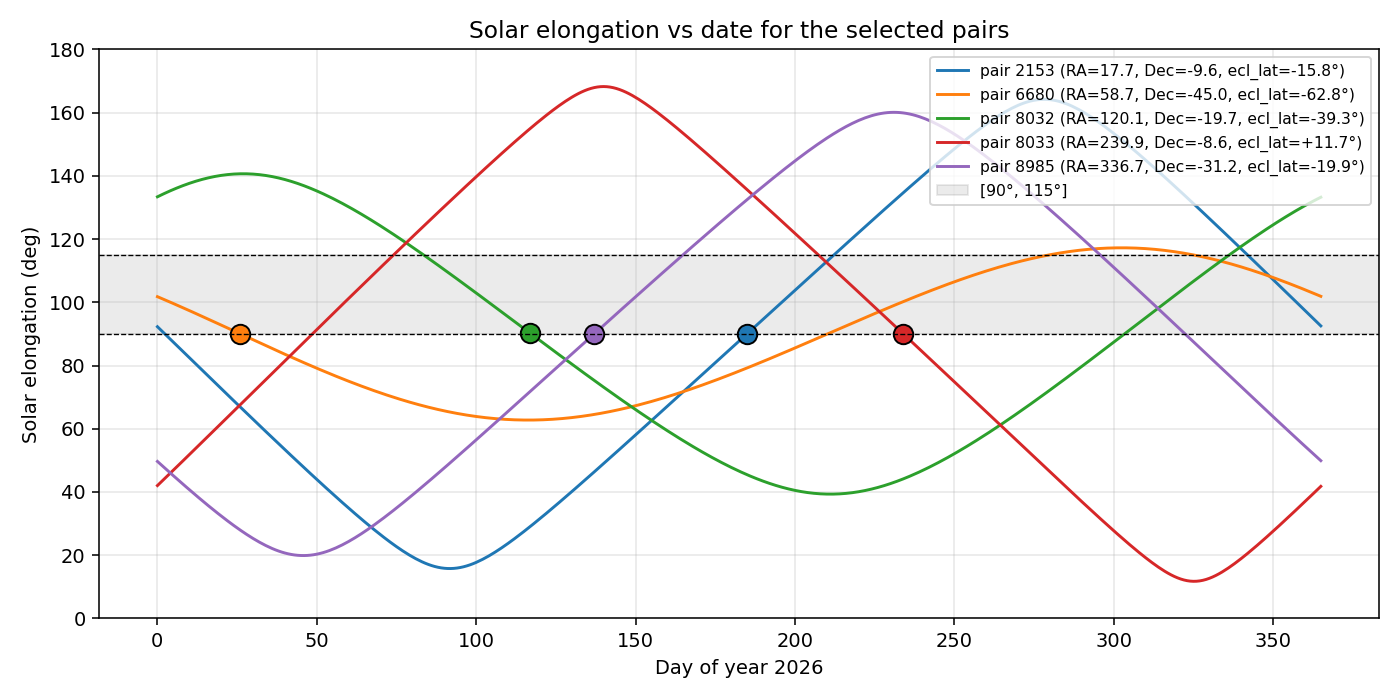
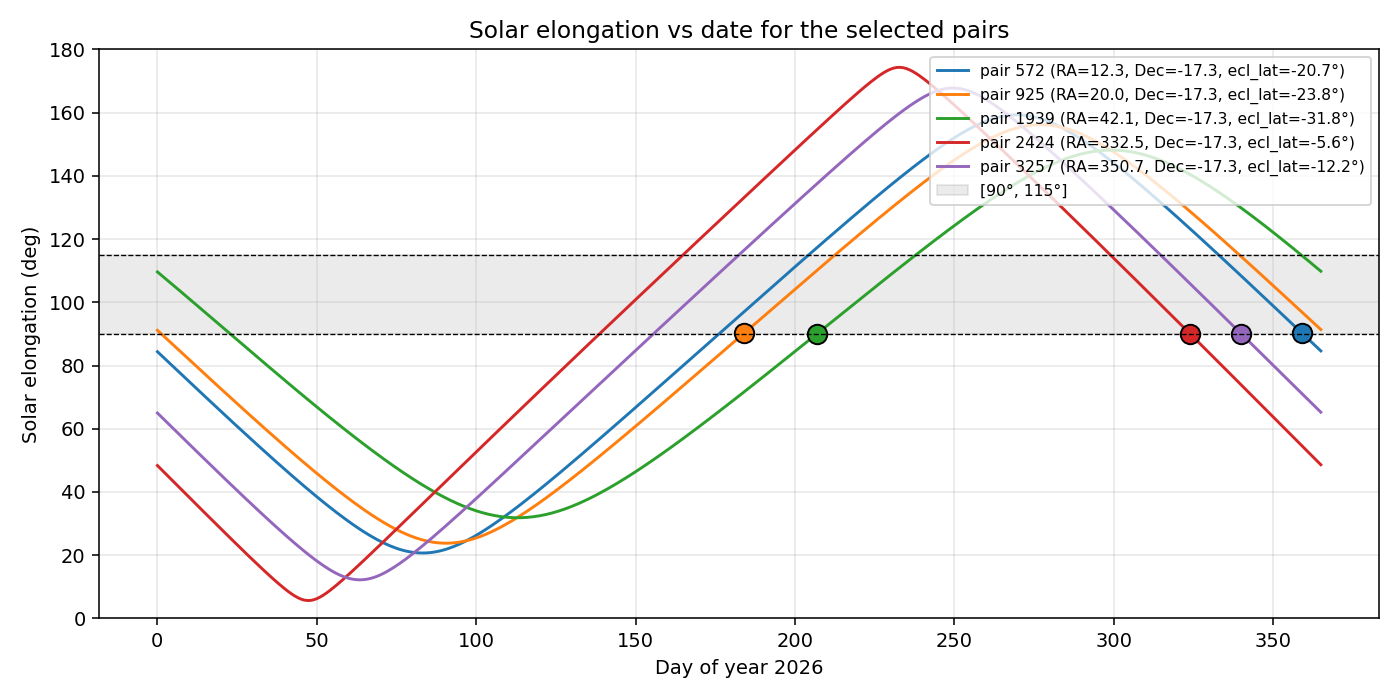
Phase 1 rev2: fix RA-wrap bug, restrict to main-survey box
Previous selection picked pairs at RA ~120° and ~240° (PAIR_IDs 8032,
8033) that had zero HLWAS F158 coverage near them — artifacts of
computing visit centres via the linear mean of 3 dither RAs when the
dithers straddled RA = 0°/360°, producing phantom centres at 120° or
240°. Also picked 8985 right on the southern Dec edge of its RA strip.

Switch to a circular mean of dither RAs, and restrict candidates to
`RA ∈ [330°, 360°] ∪ [0°, 50°]`, `Dec ∈ [-25°, -10°]`. Add an interior
check: ≥200 F158 exposures within 2° of each pair centre, to drop the
remaining near-edge pairs. New picks (PAIR_IDs 572, 925, 1939, 2424,
3257) all sit well inside the HLWAS footprint, all at Dec ≈ -17°, RAs
spread from 332.5° through the wrap to 42.1° (ecliptic latitudes from
-32° to -6°).

diff --git a/scripts/detection/01_select_pointings.py b/scripts/detection/01_select_pointings.py
@@ -59,17 +59,56 @@ ELONG_MAX = 115.0
 YEAR = 2026
 N_PAIRS = 5  # number of pairs to select
 MA_TABLE = 1007  # 107.52 s MA table — canonical HLWAS imaging cadence
-DEC_MAX = 0.0  # stay in the main body of the HLWAS survey
+
+# Main-survey RA/Dec box the selection is drawn from. RA wraps through 0°,
+# so we express it as two segments [RA_MIN_A, 360] ∪ [0, RA_MAX_B].
+# The box is chosen to sit squarely inside the HLWAS F158 footprint, away
+# from its RA/Dec edges, so every candidate pair is in a well-covered
+# part of the survey.
+RA_MIN_A = 330.0
+RA_MAX_B = 50.0
+DEC_MIN = -25.0
+DEC_MAX = -10.0
+
+# "Interior" check: a pair is considered interior to the survey if there
+# are at least INTERIOR_MIN F158 exposures within INTERIOR_RADIUS_DEG of
+# its (wrap-aware) centre. This filters phantom centres and edge pairs.
+INTERIOR_RADIUS_DEG = 2.0
+INTERIOR_MIN = 200
 
 
-def load_pair_candidates() -> pd.DataFrame:
-    """Return one row per visit for all PASS=(15,16) F158 pairs."""
+def _circular_mean_deg(angles_deg: np.ndarray) -> float:
+    """Wrap-aware mean of angles in degrees in [0, 360)."""
+    rad = np.deg2rad(angles_deg)
+    x = np.cos(rad).mean()
+    y = np.sin(rad).mean()
+    return (np.rad2deg(np.arctan2(y, x)) + 360.0) % 360.0
+
+
+def _in_ra_box(ra_deg: np.ndarray | pd.Series) -> np.ndarray:
+    """True where RA is inside [RA_MIN_A, 360] ∪ [0, RA_MAX_B]."""
+    ra = np.asarray(ra_deg)
+    return (ra >= RA_MIN_A) | (ra <= RA_MAX_B)
+
+
+def load_pair_candidates() -> tuple[pd.DataFrame, pd.DataFrame]:
+    """Return (pair-visit rows, raw F158 rows).
+
+    Uses a wrap-aware mean for the visit centre. Restricts to
+    PASS=(15,16) F158 pairs with MA_TABLE_NUMBER=1007 that sit inside
+    the (RA, Dec) box, and only keeps pairs that are interior to the
+    survey (≥ INTERIOR_MIN F158 exposures within INTERIOR_RADIUS_DEG).
+    """
     t = Table.read(HLWAS, format="ascii.ecsv")
     df = t[t["BANDPASS"] == "F158"].to_pandas()
     vkey = ["PLAN", "PASS", "SEGMENT", "OBSERVATION", "VISIT"]
+    # Wrap-aware visit centre (RA via circular mean; Dec is linear)
     vg = df.groupby(vkey)
-    # Visit center = mean of the 3 dither positions
-    centers = vg[["RA", "DEC", "PA"]].mean().reset_index()
+    centers = vg["DEC"].mean().reset_index(name="DEC")
+    centers["RA"] = vg["RA"].apply(
+        lambda s: _circular_mean_deg(s.to_numpy())
+    ).values
+    centers["PA"] = vg["PA"].first().values
     meta = vg.first().reset_index()[
         vkey + ["MA_TABLE_NUMBER", "EXPOSURE_TIME", "TARGET_NAME"]
     ]
@@ -86,19 +125,47 @@ def load_pair_candidates() -> pd.DataFrame:
     )
     wanted_pos = pair_pass[pair_pass == (15, 16)].index
     pairs = pairs.set_index(["ra_r", "dec_r"]).loc[wanted_pos].reset_index()
-    # Restrict to the canonical HLWAS imaging MA table and to the main
-    # survey body (south of the Dec~+2 edge).
+    # Canonical MA table
     pairs = pairs[pairs["MA_TABLE_NUMBER"] == MA_TABLE]
-    pairs = pairs[pairs["DEC"] < DEC_MAX]
-    # Drop any positions where the Dec filter removed one visit but kept
-    # the other (shouldn't happen since a pair shares Dec, but belt+braces):
+    # (RA, Dec) box
+    pairs = pairs[(pairs["DEC"] >= DEC_MIN) & (pairs["DEC"] <= DEC_MAX)]
+    pairs = pairs[_in_ra_box(pairs["RA"])]
+    # Drop positions where one visit survived but not both
     ok = pairs.groupby(["ra_r", "dec_r"]).size() == 2
     pairs = pairs.set_index(["ra_r", "dec_r"]).loc[ok[ok].index].reset_index()
-    # Numeric PAIR_ID = integer rank over unique (ra_r, dec_r)
+    # Numeric PAIR_ID = integer rank over unique (ra_r, dec_r) within
+    # the surviving set (so IDs are stable across reruns at a given
+    # config but not across config changes)
     unique_pos = pairs[["ra_r", "dec_r"]].drop_duplicates().reset_index(drop=True)
     unique_pos["PAIR_ID"] = unique_pos.index.astype(int)
     pairs = pairs.merge(unique_pos, on=["ra_r", "dec_r"])
-    return pairs
+    return pairs, df
+
+
+def apply_interior_filter(pairs: pd.DataFrame, f158: pd.DataFrame) -> pd.DataFrame:
+    """Drop pairs whose centres sit too close to the survey boundary.
+
+    Criterion: the number of F158 exposures within INTERIOR_RADIUS_DEG
+    of the (wrap-aware) pair centre must be at least INTERIOR_MIN.
+    """
+    centres = pairs.groupby("PAIR_ID")[["RA", "DEC"]].first()
+    ra0 = centres["RA"].to_numpy()
+    dec0 = centres["DEC"].to_numpy()
+    ra = f158["RA"].to_numpy()
+    dec = f158["DEC"].to_numpy()
+    # Small-angle Euclidean with RA wrap — OK within the box since
+    # |dec| < 25° and radii are ~2°.
+    cos_dec = np.cos(np.deg2rad(dec0))
+    counts = np.zeros(len(centres), dtype=int)
+    for i in range(len(centres)):
+        dra = np.abs(ra - ra0[i])
+        dra = np.minimum(dra, 360.0 - dra)
+        ddec = np.abs(dec - dec0[i])
+        near = (dra * cos_dec[i]) ** 2 + ddec ** 2 < INTERIOR_RADIUS_DEG ** 2
+        counts[i] = int(near.sum())
+    centres["n_f158_within_r"] = counts
+    keep = centres[centres["n_f158_within_r"] >= INTERIOR_MIN].index
+    return pairs[pairs["PAIR_ID"].isin(keep)].reset_index(drop=True)
 
 
 def solar_elongation_curve(ra_deg: float, dec_deg: float, year: int = YEAR) -> pd.DataFrame:
@@ -143,39 +210,32 @@ def windows(curve: pd.DataFrame, minimum: float = ELONG_MIN,
     return runs
 
 
-def select_pair_sample(pair_centers: pd.DataFrame, n: int,
-                       rng_seed: int = 20260422) -> pd.DataFrame:
-    """Pick `n` pairs that span ecliptic latitude then RA.
+def select_pair_sample(pair_centers: pd.DataFrame, n: int) -> pd.DataFrame:
+    """Pick `n` pairs evenly spread across the (wrap-aware) RA axis.
 
-    Strategy: sort by ecliptic latitude (the main driver of zodi
-    background), split into n roughly equal-count bins, and within each
-    bin pick the pair whose RA is most extreme relative to already-chosen
-    pairs (greedy max-min-separation in RA after lat binning).
+    Strategy: map RA through the box [RA_MIN_A, 360] ∪ [0, RA_MAX_B]
+    onto a linear 0-to-(RA_MAX_B + 360 - RA_MIN_A) axis, bin into n
+    equal-count bins, and in each bin pick the candidate at the bin's
+    median Dec. This gives roughly even RA coverage with mild Dec
+    diversity per slice. Ties broken deterministically by PAIR_ID.
     """
-    rng = np.random.default_rng(rng_seed)
-    pc = pair_centers.copy().sort_values("ECL_LAT_DEG").reset_index(drop=True)
-    # Latitude bins — equal count
+    pc = pair_centers.copy()
+    # Linearise RA across the wrap (anchor 0 at RA_MIN_A)
+    pc["RA_LIN"] = np.where(
+        pc["RA"] >= RA_MIN_A,
+        pc["RA"] - RA_MIN_A,
+        pc["RA"] + (360.0 - RA_MIN_A),
+    )
+    pc = pc.sort_values(["RA_LIN", "PAIR_ID"]).reset_index(drop=True)
     bin_idx = np.linspace(0, len(pc), n + 1).astype(int)
     picked = []
     for i in range(n):
         cand = pc.iloc[bin_idx[i]:bin_idx[i + 1]]
         if cand.empty:
             continue
-        if not picked:
-            # Pick the median-RA candidate in the bin
-            ra_sorted = cand.sort_values("RA")
-            picked.append(ra_sorted.iloc[len(ra_sorted) // 2])
-        else:
-            # Maximise angular RA separation from already-picked pairs
-            ras_picked = np.array([p["RA"] for p in picked])
-            def dra(row):
-                dr = np.minimum(
-                    np.abs(row["RA"] - ras_picked),
-                    360.0 - np.abs(row["RA"] - ras_picked),
-                )
-                return dr.min()
-            cand = cand.assign(dra=cand.apply(dra, axis=1))
-            picked.append(cand.sort_values("dra", ascending=False).iloc[0])
+        mid_dec = cand["DEC"].median()
+        row = cand.iloc[(cand["DEC"] - mid_dec).abs().values.argmin()]
+        picked.append(row)
     return pd.DataFrame(picked).reset_index(drop=True)
 
 
@@ -189,8 +249,12 @@ def main():
     OUT_PLOTS.mkdir(parents=True, exist_ok=True)
 
     print("Loading HLWAS pair candidates…")
-    pairs = load_pair_candidates()
-    print(f"  {pairs['PAIR_ID'].nunique()} PASS=(15,16) F158 pairs")
+    pairs, f158 = load_pair_candidates()
+    print(f"  {pairs['PAIR_ID'].nunique()} PASS=(15,16) F158 pairs "
+          f"inside the RA/Dec box")
+    pairs = apply_interior_filter(pairs, f158)
+    print(f"  {pairs['PAIR_ID'].nunique()} remain after the interior filter "
+          f"(>= {INTERIOR_MIN} F158 exposures within {INTERIOR_RADIUS_DEG}°)")
 
     # Pair-level centers (identical for both visits), with ecliptic lat/lon
     centers = pairs.groupby("PAIR_ID").agg(
@@ -316,22 +380,30 @@ def main():
     fig.savefig(OUT_PLOTS / "elongation_windows.png", dpi=140)
     plt.close(fig)
 
-    # Sky map — all candidates (grey) + selected (red)
-    fig, ax = plt.subplots(figsize=(10, 6))
-    ax.scatter(centers["RA"], centers["DEC"], s=2, color="lightgray",
-               label=f"{len(centers)} (15,16) pairs with valid date window")
+    # Sky map — show the full HLWAS F158 cloud + our selection box + picks
+    fig, ax = plt.subplots(figsize=(11, 6))
+    ax.scatter(f158["RA"], f158["DEC"], s=0.5, color="lightgray", alpha=0.5,
+               label=f"{len(f158):,} HLWAS F158 exposures (all)")
+    ax.scatter(centers["RA"], centers["DEC"], s=6, color="tab:blue",
+               label=f"{len(centers)} (15,16) interior pairs in selection box",
+               alpha=0.5)
     for _, prow in selected_full.iterrows():
-        ax.scatter(prow["RA"], prow["DEC"], s=90, marker="*",
-                   color="tab:red", edgecolor="k", lw=0.5, zorder=5)
+        ax.scatter(prow["RA"], prow["DEC"], s=140, marker="*",
+                   color="tab:red", edgecolor="k", lw=0.6, zorder=5)
         ax.annotate(f" {int(prow['PAIR_ID'])}",
-                    (prow["RA"], prow["DEC"]),
-                    fontsize=9)
+                    (prow["RA"], prow["DEC"]), fontsize=9)
+    # Draw the selection-box boundary (RA wraps)
+    box_ra_edges = [RA_MIN_A, 360.0, 0.0, RA_MAX_B]
+    for ra_lo, ra_hi in [(RA_MIN_A, 360.0), (0.0, RA_MAX_B)]:
+        ax.plot([ra_lo, ra_hi, ra_hi, ra_lo, ra_lo],
+                [DEC_MIN, DEC_MIN, DEC_MAX, DEC_MAX, DEC_MIN],
+                color="k", ls="--", lw=1.0, alpha=0.6)
     ax.set_xlabel("RA (deg)")
     ax.set_ylabel("Dec (deg)")
-    ax.invert_xaxis()
+    ax.set_xlim(360, 0)
     ax.grid(True, alpha=0.3)
-    ax.legend(loc="lower right")
-    ax.set_title(f"HLWAS F158 (15,16) pairs — {args.n_pairs} selected")
+    ax.legend(loc="lower right", markerscale=2)
+    ax.set_title(f"HLWAS F158 — {args.n_pairs} selected pairs inside main-survey box")
     fig.tight_layout()
     fig.savefig(OUT_PLOTS / "sky_map.png", dpi=140)
     plt.close(fig)
